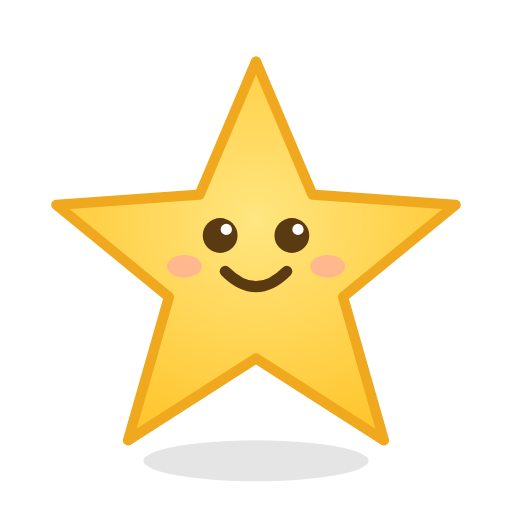
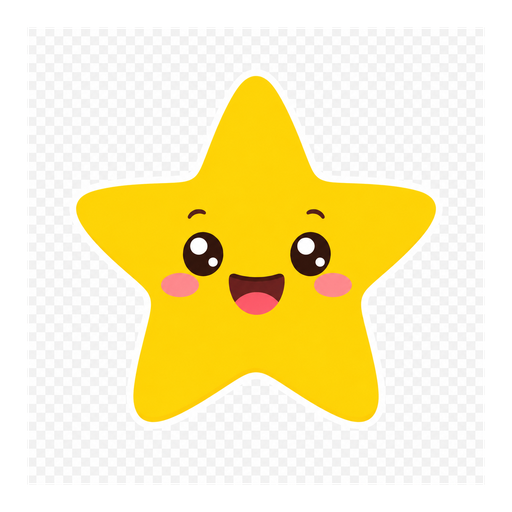
用 ChatGPT 重畫遊戲美術 — 第一批：數數樂園 12 張 (v1.2.0)
- 6 場景背景 scene-ocean/garden/sky/night/orchard/pond (1024x640 滿版)
- 6 可數物件 obj-fish/flower/butterfly/star/apple/duck (512² 去背)
- 共用：m-cat/a-cat/m-butterfly/m-star/m-apple/a-duck
- sw.js 快取 v8→v9

Changed region(s): [[0.0938, 0.0938, 0.9062, 0.875], [0.2812, 0.8438, 0.7188, 0.9375]]

diff --git a/sw.js b/sw.js
@@ -3,7 +3,7 @@
    策略：預先快取 App 殼層；之後用 stale-while-revalidate，
    先回快取（離線可玩），背景再更新，不需手動改版本就會自動更新。
    ============================================================ */
-const CACHE = "mlp-cache-v8";
+const CACHE = "mlp-cache-v9";
 
 const ASSETS = [
   "./",

diff --git a/docs/更新紀錄.md b/docs/更新紀錄.md
@@ -4,6 +4,20 @@
 
 ---
 
+## [1.2.0] － 2026-06-07｜用 ChatGPT 重畫遊戲美術（第一批：數數樂園）🎨🤖
+### 新增／替換
+- 依使用者要求，**改用 ChatGPT（GPT 生圖）親自繪製遊戲美術**，覆蓋先前自製的 SVG 版插畫（同檔名）
+- 第一批完成 **數數樂園 12 張**：
+  - 6 張場景背景（1024×640 滿版）：`scene-ocean / garden / sky / night / orchard / pond`（夜空不含星星，中間留空放物件）
+  - 6 個可數物件（512×512 去背）：`obj-fish / flower / butterfly / star / apple / duck`
+- 另外順手共用到其他遊戲：`m-cat`、`a-cat`、`m-butterfly`、`m-star`、`m-apple`、`a-duck`（同一張圖存多檔名）
+### 流程（本機可重現）
+- 用 Chrome 操作 `chatgpt.com` 生圖 → 頁內 `fetch`→`blob` 觸發下載 → Pillow 自動去背裁邊／縮圖（物件 512²、背景 1024×640 cover）→ 存入 `assets/img/`
+### 影響檔案
+- 替換 `assets/img/*.png`（18 張）、`sw.js`（快取 `v8`→`v9`，讓使用者立即取得新圖）
+- 規模：大型（替換大量共用素材；舊版 SVG 圖已保存在 git 歷史 `ad032da` 可還原）
+- 後續批次：記憶配對、關係配對動物＋食物（進行中）
+
 ## [1.1.0] － 2026-06-07｜自製 74 張遊戲插畫上線 🎨
 ### 新增
 - 親手繪製 **57 種一致畫風的扁平可愛插畫（SVG）**，用 headless Edge 轉成 **74 個 PNG** 放入 `assets/img/`
